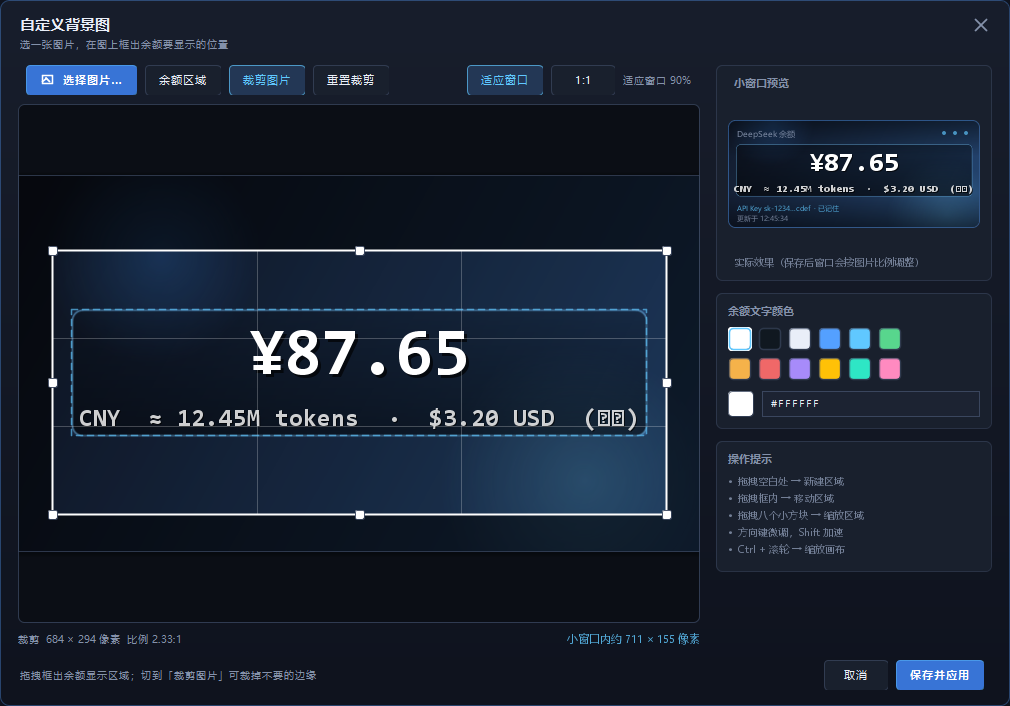
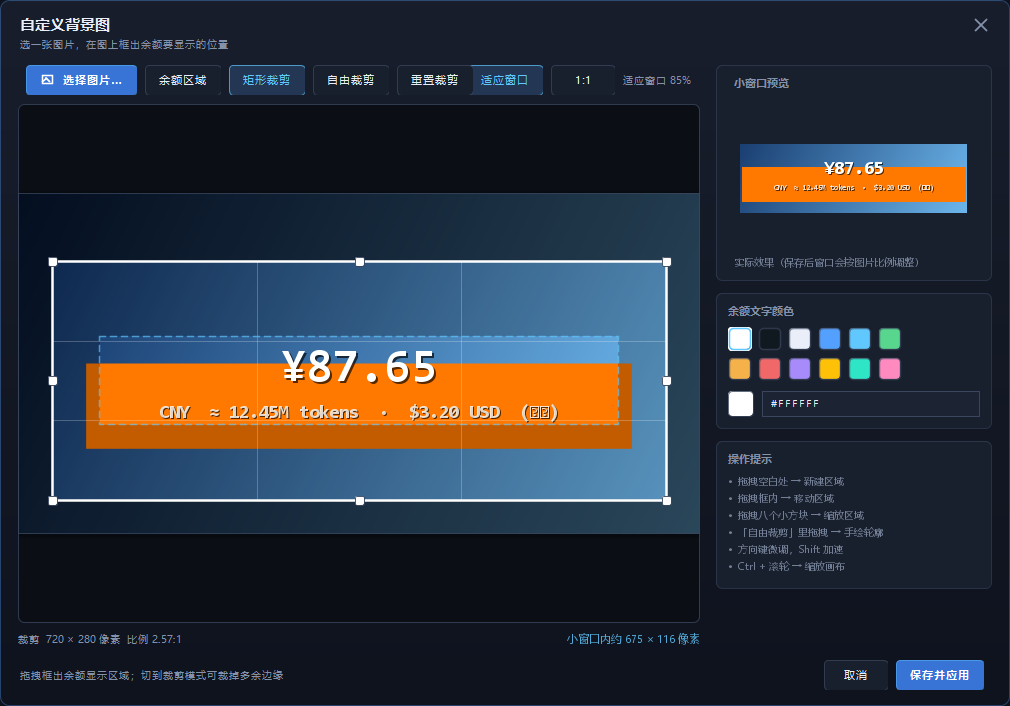
改：选了背景图后，图片本身就是窗口，不再套一层卡片
- 有图片时不再画应用自己的任何装饰：没有圆角（图片的四角就是窗口的四角）、没有那圈
  边框描边、没有标题栏/窗口按钮/底部信息，也没有为了压住文字而加的边缘压暗
- 矩形裁剪的窗口形状就是裁剪矩形，自由裁剪仍是那块轮廓区域；两种情况下图片都铺满
  窗口，窗口边缘即图片边缘
- 编辑器右侧预览同步：矩形裁剪也画成直角、不描边，并且不再画标题栏——之前预览还
  保留圆角与标题栏，等于承诺了一个不会出现的窗口
- 底栏隐藏后刷新失败就没地方显示，改为在图片左下角浮一行红色小字（带半透明底衬），
  刷新成功后自动消失，避免过期的余额数字悄悄留在屏幕上
- 有图片时字体大小只保存设置，不再按比例缩放窗口——那会把窗口边缘拉离裁剪线

自测
- 「窗口边缘与裁剪一致」补充两条断言：窗口形状必须是直角（四角都要在形状内，圆角
  会被判失败），且四角像素必须是图片本身（不是卡片底色，也不是描边）

diff --git a/src/main/java/com/ruoyi/dstokencheck/ui/BalanceBoard.java b/src/main/java/com/ruoyi/dstokencheck/ui/BalanceBoard.java
@@ -43,6 +43,7 @@ import java.awt.Cursor;
 import java.awt.Dimension;
 import java.awt.FlowLayout;
 import java.awt.Font;
+import java.awt.FontMetrics;
 import java.awt.GradientPaint;
 import java.awt.Graphics;
 import java.awt.Graphics2D;
@@ -383,13 +384,18 @@ public class BalanceBoard extends JFrame {
             return;
         }
         config.save();
-
-        Rectangle b = getBounds();
-        float ratio = now / old;
         setMinimumSize(new Dimension(minW(), minH()));
-        setBounds(b.x, b.y,
-                Math.max(minW(), Math.round(b.width * ratio)),
-                Math.max(minH(), Math.round(b.height * ratio)));
+
+        // The scale drives every label; with a picture the labels are hidden and the figure is
+        // fitted to the framed box instead, so only the setting changes — resizing the card by the
+        // same ratio would pull its edges off the crop.
+        if (backgroundImage == null) {
+            Rectangle b = getBounds();
+            float ratio = now / old;
+            setBounds(b.x, b.y,
+                    Math.max(minW(), Math.round(b.width * ratio)),
+                    Math.max(minH(), Math.round(b.height * ratio)));
+        }
         applyFonts();
         applyShape();
 
@@ -725,11 +731,12 @@ public class BalanceBoard extends JFrame {
     }
 
     /**
-     * Clips the window to the card's outline.
+     * Clips the window to its outline.
      *
-     * <p>Without a crop that is a rounded rectangle. With an irregular one it has to be the crop's
-     * own silhouette: the window's edge is the edge the user drew, so a lassoed subject becomes a
-     * window in that shape rather than a rectangle with the background still around it.
+     * <p>Without a picture that is the app's rounded card. With one the window <em>is</em> the
+     * picture: the crop's rectangle with its own four corners, or the traced silhouette — no
+     * rounding and no frame, because cutting a corner off the picture or stroking a line around it
+     * would make it a picture inside a card again.
      *
      * <p>Deliberately <em>not</em> done with per-pixel translucency
      * ({@code setBackground(new Color(0,0,0,0))}). On Windows a per-pixel translucent window
@@ -754,18 +761,22 @@ public class BalanceBoard extends JFrame {
     }
 
     /**
-     * The window's outline in its own coordinates: the crop's silhouette, or the rounded card.
+     * The window's outline in its own coordinates.
      *
-     * <p>A rectangular crop keeps the app's rounded corners — that is the look every other window
-     * has — while an irregular crop is used exactly as drawn.
+     * <p>With a picture: the traced silhouette, or the crop's rectangle corner to corner. Without
+     * one: the rounded card every other window of this app uses.
      */
     private java.awt.Shape windowOutline() {
-        if (cropShape != null && !cropShape.isRectangle() && backgroundImage != null) {
-            // Same transform as the painting: the outline is normalised to the picture, so it has
-            // to travel through wherever the picture is drawn on the card.
-            Rectangle image = BackgroundLayout.imageRect(imageCrop,
-                    backgroundImage.getWidth(), backgroundImage.getHeight(), getWidth(), getHeight());
-            return cropShape.toPath(image);
+        if (backgroundImage != null) {
+            if (cropShape != null && !cropShape.isRectangle()) {
+                // Same transform as the painting: the outline is normalised to the picture, so it
+                // has to travel through wherever the picture is drawn on the card.
+                Rectangle image = BackgroundLayout.imageRect(imageCrop,
+                        backgroundImage.getWidth(), backgroundImage.getHeight(),
+                        getWidth(), getHeight());
+                return cropShape.toPath(image);
+            }
+            return new Rectangle(0, 0, getWidth(), getHeight());
         }
         return new RoundRectangle2D.Double(0, 0, getWidth(), getHeight(), ARC, ARC);
     }
@@ -895,6 +906,7 @@ public class BalanceBoard extends JFrame {
 
         statusLabel.setForeground(Theme.TEXT_DIM);
         statusLabel.setText("\u66f4\u65b0\u4e8e " + new SimpleDateFormat("HH:mm:ss").format(new Date(snap.getFetchedAtMillis())));
+        board.setErrorText("");
         board.repaint();
     }
 
@@ -908,6 +920,8 @@ public class BalanceBoard extends JFrame {
     private void showError(String message) {
         statusLabel.setForeground(Theme.DANGER);
         statusLabel.setText(truncate(message, 60));
+        // The footer may be hidden behind a picture, so the same message goes onto the picture.
+        board.setErrorText(truncate(message, 70));
     }
 
     /** True when the widget was started with {@code -Ddstokencheck.demo=true} to preview layout. */
@@ -1262,16 +1276,16 @@ public class BalanceBoard extends JFrame {
     /**
      * Shows or hides the title bar and footer.
      *
-     * <p>With an irregular crop the window is the picture's silhouette, and the chrome would be
-     * drawn at the corners of the bounding box — outside the outline, so the buttons could not even
-     * be clicked. An outline window therefore shows only the picture and the number, and everything
-     * else lives in the right-click menu.
+     * <p>Once a picture is set the window is the picture, so none of the app's own furniture is
+     * drawn over it: no title bar, no window buttons, no footer, and none of the edge shading that
+     * exists to keep that text readable. What is left is the picture and the balance figure, which
+     * is the point of choosing one. Everything else stays in the right-click menu.
      */
     private void updateChromeVisibility() {
-        boolean irregular = cropShape != null && !cropShape.isRectangle();
-        titleBarPanel.setVisible(!irregular);
-        footerPanel.setVisible(!irregular);
-        board.setChromeVisible(!irregular);
+        boolean picture = backgroundImage != null;
+        titleBarPanel.setVisible(!picture);
+        footerPanel.setVisible(!picture);
+        board.setChromeVisible(!picture);
     }
 
     /** Opens the image picker / region framer, and applies the result when it is confirmed. */
@@ -1389,9 +1403,16 @@ public class BalanceBoard extends JFrame {
         private Color regionTextColor = Color.WHITE;
         /** False when the title bar and footer are hidden, which also drops the edge scrims. */
         private boolean chromeVisible = true;
+        /** Last failed refresh, shown on the picture when there is no footer to show it in. */
+        private String errorText = "";
 
         void setChromeVisible(boolean visible) {
             this.chromeVisible = visible;
+            repaint();
+        }
+
+        void setErrorText(String text) {
+            this.errorText = text == null ? "" : text;
             repaint();
         }
 
@@ -1452,6 +1473,7 @@ public class BalanceBoard extends JFrame {
             // Drawn after the children: a wide frame can reach under the footer, and the number is
             // the one thing that must never end up hidden.
             paintRegionText(g);
+            paintErrorText(g);
         }
 
         private void paintRegionText(Graphics g) {
@@ -1468,6 +1490,48 @@ public class BalanceBoard extends JFrame {
             } finally {
                 g2.dispose();
             }
+        }
+
+        /**
+         * Reports a failed refresh on the picture itself.
+         *
+         * <p>A picture window has no footer to put a message in, and leaving the last good number on
+         * screen while the fetches fail would quietly lie about the balance. The chip only appears
+         * when something is actually wrong.
+         */
+        private void paintErrorText(Graphics g) {
+            if (chromeVisible || errorText.isEmpty()) {
+                return;
+            }
+            Graphics2D g2 = (Graphics2D) g.create();
+            try {
+                g2.setRenderingHint(RenderingHints.KEY_ANTIALIASING, RenderingHints.VALUE_ANTIALIAS_ON);
+                g2.setFont(Theme.ui(Font.PLAIN, 10.5f));
+                FontMetrics fm = g2.getFontMetrics();
+                String text = fitText(g2, errorText, Math.max(60, getWidth() - 28));
+                int w = fm.stringWidth(text) + 16;
+                int h = fm.getHeight() + 6;
+                int x = 8;
+                int y = Math.max(4, getHeight() - h - 8);
+                g2.setColor(new Color(0, 0, 0, 165));
+                g2.fill(new RoundRectangle2D.Float(x, y, w, h, 8, 8));
+                g2.setColor(Theme.DANGER);
+                g2.drawString(text, x + 8, y + 3 + fm.getAscent());
+            } finally {
+                g2.dispose();
+            }
+        }
+
+        private static String fitText(Graphics2D g2, String text, int maxWidth) {
+            FontMetrics fm = g2.getFontMetrics();
+            if (fm.stringWidth(text) <= maxWidth) {
+                return text;
+            }
+            int end = text.length();
+            while (end > 1 && fm.stringWidth(text.substring(0, end) + "\u2026") > maxWidth) {
+                end--;
+            }
+            return text.substring(0, end) + "\u2026";
         }
 
         @Override
@@ -1502,9 +1566,13 @@ public class BalanceBoard extends JFrame {
                 }
                 g2.setClip(old);
 
-                g2.setColor(Theme.alpha(Theme.ACCENT, 90));
-                g2.setStroke(new BasicStroke(1f));
-                g2.draw(clip);
+                // A card draws its own edge; a picture's edge is the window's, and stroking it would
+                // put the frame back around a window that is supposed to be the picture.
+                if (backgroundImage == null) {
+                    g2.setColor(Theme.alpha(Theme.ACCENT, 90));
+                    g2.setStroke(new BasicStroke(1f));
+                    g2.draw(clip);
+                }
             } finally {
                 g2.dispose();
             }
@@ -1512,10 +1580,13 @@ public class BalanceBoard extends JFrame {
 
         /** The card's silhouette: the crop's outline when it is irregular, else the rounded card. */
         private java.awt.Shape cardOutline(int w, int h, int arc) {
-            if (cropShape != null && !cropShape.isRectangle()) {
-                // Through the image transform, not stretched to the card: the outline is stored
-                // relative to the whole picture, exactly like the balance region is.
-                return cropShape.toPath(imageBounds());
+            if (backgroundImage != null) {
+                if (cropShape != null && !cropShape.isRectangle()) {
+                    // Through the image transform, not stretched to the card: the outline is stored
+                    // relative to the whole picture, exactly like the balance region is.
+                    return cropShape.toPath(imageBounds());
+                }
+                return new Rectangle(0, 0, w, h);
             }
             return rounded
                     ? new RoundRectangle2D.Float(0, 0, w - 1, h - 1, arc, arc)

diff --git a/src/main/java/com/ruoyi/dstokencheck/Main.java b/src/main/java/com/ruoyi/dstokencheck/Main.java
@@ -997,6 +997,18 @@ public final class Main {
             boolean leftIsGreen = green(left) > red(left) + 30 && green(left) > blue(left) + 30;
             boolean rightIsBlue = blue(right) > red(right) + 60 && blue(right) > green(right) + 60;
 
+            // The picture is the window, not something inside the app's card: its own corners are
+            // the window's corners (no rounding), and no frame is stroked over its edge.
+            java.awt.Shape windowShape = ref[0].getShape();
+            boolean squareCorners = windowShape != null
+                    && windowShape.contains(1.0, 1.0)
+                    && windowShape.contains(bounds.width - 2.0, bounds.height - 2.0);
+            int cornerTL = shot.getRGB(6, 6);
+            int cornerBR = shot.getRGB(bounds.width - 7, bounds.height - 7);
+            boolean cornersArePicture =
+                    green(cornerTL) > red(cornerTL) + 30 && green(cornerTL) > blue(cornerTL) + 30
+                    && blue(cornerBR) > red(cornerBR) + 60 && blue(cornerBR) > green(cornerBR) + 60;
+
             // Nothing of the cropped-away stripes may be visible anywhere on the card.
             boolean noRedOrYellow = true;
             for (int y = 0; y < bounds.height && noRedOrYellow; y += 7) {
@@ -1023,7 +1035,8 @@ public final class Main {
                 }
             });
 
-            boolean ok = aspectFitted && leftIsGreen && rightIsBlue && noRedOrYellow && aspectKept;
+            boolean ok = aspectFitted && leftIsGreen && rightIsBlue && noRedOrYellow && aspectKept
+                    && squareCorners && cornersArePicture;
             System.out.println((ok ? "PASS" : "FAIL")
                     + "  \u7a97\u53e3\u8fb9\u7f18\u4e0e\u88c1\u526a\u4e00\u81f4"
                     + " (\u7a97\u53e3=" + bounds.width + "x" + bounds.height
@@ -1032,7 +1045,9 @@ public final class Main {
                     + ", \u53f3\u8fb9\u7f18\u662f\u88c1\u526a\u53f3\u8fb9=" + rightIsBlue
                     + ", \u88ab\u88c1\u6389\u7684\u989c\u8272\u672a\u51fa\u73b0=" + noRedOrYellow
                     + ", \u7f29\u653e\u540e\u4fdd\u6301\u6bd4\u4f8b=" + aspectKept
-                    + " -> " + resized.width + "x" + resized.height + ")");
+                    + " -> " + resized.width + "x" + resized.height
+                    + ", \u56db\u89d2\u4e0d\u518d\u5706\u89d2=" + squareCorners
+                    + ", \u56db\u89d2\u5c31\u662f\u56fe\u7247=" + cornersArePicture + ")");
             return ok;
         } catch (Exception e) {
             System.out.println("FAIL  \u7a97\u53e3\u8fb9\u7f18\u4e0e\u88c1\u526a\u4e00\u81f4: " + e);

diff --git a/src/main/java/com/ruoyi/dstokencheck/ui/BackgroundRegionDialog.java b/src/main/java/com/ruoyi/dstokencheck/ui/BackgroundRegionDialog.java
@@ -935,10 +935,12 @@ public class BackgroundRegionDialog extends JDialog {
                 int y = (getHeight() - h) / 2;
 
                 // The miniature has to be cut to the same silhouette as the window, or it would
-                // promise a rectangular card the user is not going to get.
-                Shape cardShape = shape.isRectangle()
-                        ? new RoundRectangle2D.Float(x, y, w - 1, h - 1, 14, 14)
-                        : shape.toPath(new Rectangle(x, y, w, h));
+                // promise a rectangular card the user is not going to get. With a picture the card
+                // is the picture itself, sharp corners and all.
+                boolean picture = image != null;
+                Shape cardShape = picture
+                        ? shape.toPath(new Rectangle(x, y, w, h))
+                        : new RoundRectangle2D.Float(x, y, w - 1, h - 1, 14, 14);
                 Shape old = g2.getClip();
                 g2.clip(cardShape);
                 g2.translate(x, y);
@@ -949,13 +951,12 @@ public class BackgroundRegionDialog extends JDialog {
                     g2.setRenderingHint(RenderingHints.KEY_INTERPOLATION,
                             RenderingHints.VALUE_INTERPOLATION_BILINEAR);
                     g2.drawImage(canvas.displayImage(), cover.x, cover.y, cover.width, cover.height, null);
-                    Theme.paintEdgeScrim(g2, w, h);
                 } else {
                     g2.setPaint(new GradientPaint(0, 0, Theme.BG_TOP, 0, h, Theme.BG_BOTTOM));
                     g2.fillRect(0, 0, w, h);
+                    // The widget only draws its own title bar and footer on the plain card.
+                    paintChrome(g2, w, h);
                 }
-
-                paintChrome(g2, w, h);
 
                 Rectangle2D.Float region = canvas.getRegion();
                 if (image != null && region != null) {
@@ -969,8 +970,11 @@ public class BackgroundRegionDialog extends JDialog {
                 g2.translate(-x, -y);
                 g2.setClip(old);
 
-                g2.setColor(Theme.alpha(Theme.ACCENT, 110));
-                g2.draw(cardShape);
+                // Only the card has an edge drawn round it; the picture's edge is the window's.
+                if (!picture) {
+                    g2.setColor(Theme.alpha(Theme.ACCENT, 110));
+                    g2.draw(cardShape);
+                }
             } finally {
                 g2.dispose();
             }

diff --git a/README.md b/README.md
@@ -26,6 +26,7 @@
 | 退出登录 | 右键菜单 →「退出登录」，清除本机保存的 Key 并返回登录界面 |
 | 余额显示 | 主币种余额以大字号显示，其他币种分行列出 |
 | 自定义背景图 | 上传自己的图片并框出显示区域，余额数字落在框内；图片复制到配置目录，原图可删 |
+| 图片即窗口 | 选了背景图就不再画自己的圆角、边框与标题栏，图片本身成为窗口主体 |
 | 裁剪图片 | 裁掉图片多余的边缘，小窗口只显示裁剪后的部分，窗口边缘与裁剪线一致 |
 | 自由裁剪 | 手绘任意轮廓（套索），窗口直接变成那个形状——抠出来的主体就是窗口本身 |
 | 自动刷新 | 默认 60 秒，可选 5 / 10 / 30 / 60 / 300 秒 |
@@ -99,7 +100,7 @@ java -jar target\dstokencheck.jar
 | 打开菜单 | 在窗口上点击右键 |
 | 置顶开关 | 点击右上角图钉图标，或右键菜单 →「窗口置顶」 |
 | 立即刷新 | 点击右上角刷新图标，或右键菜单 →「立即刷新」 |
-| 隐藏窗口 | 点击右上角关闭图标 |
+| 隐藏窗口 | 点击右上角关闭图标（有背景图时该图标会隐藏，用右键菜单 →「退出」） |
 | 更换背景 | 右键菜单 →「背景图…」，见 [自定义背景图](#自定义背景图) |
 
 右键菜单包含：立即刷新、退出登录、开机自启、窗口置顶、窗口尺寸、背景图、恢复默认背景、字体大小、刷新间隔、退出。
@@ -146,13 +147,17 @@ java -jar target\dstokencheck.jar
 6. 点「**保存并应用**」生效。没选图片时该按钮是灰的；点「取消」、按 `Esc` 或直接关窗
    都不会保存任何改动（本次导入的图片副本也会被清理）。
 
-**窗口边缘与裁剪一致**：裁剪范围就是小窗口的内容，窗口比例会跟着裁剪走（保存后自动调整）。
-画面按裁剪范围铺满整个窗口，所以窗口的四条边正好压在裁剪线上——裁掉的部分不会漏进窗口，
-留下的部分也不会被切掉。**自由裁剪时窗口本身就是那个轮廓**：用窗口区域（Region）实现，
-轮廓外的地方根本不属于这个窗口，点击也会穿透过去，桌面看到的形状就是你画的那一圈。
+**图片就是窗口本身**：一旦选了背景图，应用自己那层卡片就彻底退场——不再画圆角、不再描边框、
+不再叠加标题栏与底栏，图片的四条边就是窗口的四条边，图片上只剩余额数字。比例跟着裁剪走
+（保存后自动调整），画面按裁剪范围铺满整个窗口：裁掉的部分不会漏进窗口，留下的部分也不会被切掉。
 此后手动缩放窗口时也只能**等比缩放**，保证这个对应关系不被破坏。
 
-![自定义背景图效果](tools/background-window.png)
+![背景图即窗口](tools/background-window-rect.png)
+
+**自由裁剪更进一步**：窗口直接用窗口区域（Region）做成你画的那一圈轮廓，轮廓外的像素根本不属于
+这个窗口，点击也会穿透过去，桌面看到的形状就是你画的那个形状。
+
+![轮廓窗口](tools/background-window.png)
 
 操作方式：
 
@@ -175,9 +180,10 @@ java -jar target\dstokencheck.jar
 说明：
 
 - 区域与裁剪都按**图片比例**保存，所以小窗口缩放后数字仍然落在同一位置。
-- 自定义模式下字体大小的调节不再影响数字，数字始终自动缩放到刚好填满框定区域。
-- **轮廓形状的窗口只显示图片和数字**：标题栏和底栏画在方形卡片的四角，对不规则轮廓来说
-  会落在轮廓外面、按钮也点不到，所以它们会被隐藏。刷新、置顶、换图、退出都在**右键菜单**里。
+- **有背景图的窗口只显示图片与余额数字**：标题栏、窗口按钮、底部信息都不会叠在图片上。
+  刷新、置顶、换图、改颜色、退出都在**右键菜单**里；平时唯一可能出现在图片上的文字，
+  是刷新失败时左下角那一行红色小字（成功后自动消失）。
+- 字体大小在有背景图时只影响（已经隐藏的）界面文字，不会再改变窗口尺寸——窗口比例由裁剪决定。
 - 「恢复默认背景」可随时回到内置深色卡片，并删除配置目录里的图片副本（连同裁剪设置）。
 
 ### 刷新间隔
@@ -357,6 +363,7 @@ tools/                            开发期工具，不影响程序运行
 ├── apikey-window.png             登录窗口渲染效果
 ├── demo-window.png               小窗口渲染效果
 ├── background-window.png         自由裁剪（轮廓窗口）下的小窗口渲染效果
+├── background-window-rect.png    矩形裁剪下的小窗口：就是图片本身，无边框无标题栏
 ├── background-dialog.png         背景图设置窗口渲染效果
 ├── background-crop.png           矩形裁剪模式的渲染效果
 └── background-free.png           自由裁剪（手绘轮廓）模式的渲染效果
@@ -375,6 +382,6 @@ tools/                            开发期工具，不影响程序运行
 - 自定义背景图模式下，币种、可用 token 估算、赠送与其他币种会合并成一行小字显示在框定区域内。
 - 套用背景图后窗口只能**等比缩放**：窗口边缘要一直压在裁剪线上，自由拉边会让画面被切或被压扁。
   需要别的比例时，改裁剪范围即可。
+- 有背景图时窗口不画任何应用自己的装饰（圆角、边框、标题栏、底栏），操作全部走右键菜单。
 - 自由裁剪的轮廓只能整体移动、等比缩放或重新画：不支持单独拖动某一个顶点。
   轮廓顶点上限 96 个，手绘轨迹会自动简化到远低于这个数，保证窗口移动时不卡。
-- 轮廓形状的窗口隐藏标题栏与底栏（见上文），所有操作走右键菜单。
